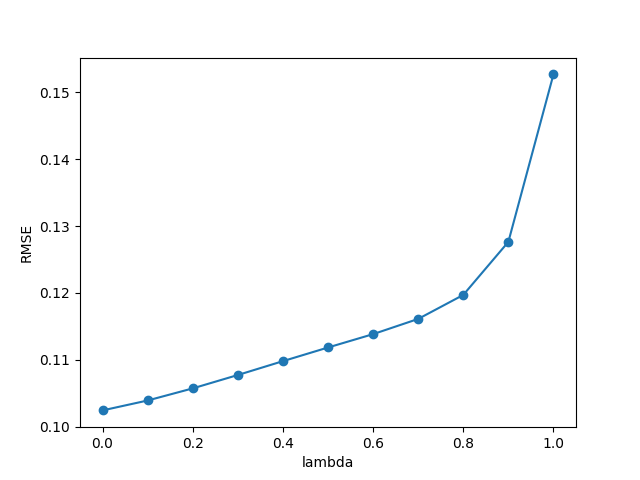
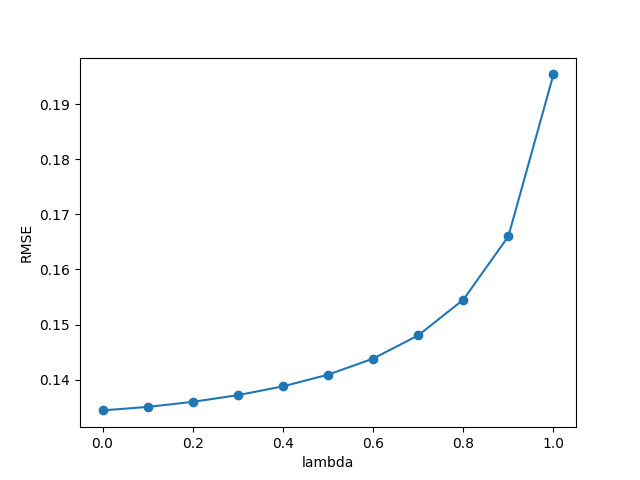
working!

diff --git a/projects/pr1/ex2.py b/projects/pr1/ex2.py
@@ -1,14 +1,14 @@
-import time
 import numpy as np
 import matplotlib.pyplot as plt
+from timeit import default_timer as timer
 
 
-def batch_td(training_episodes, w=None, lambda_=0.1, alpha=0.001, epsilon=1e-7):
+def batch_td(training_episodes, w=None, lambda_=0.3, alpha=0.025, epsilon=1e-7):
     num_states = len(training_episodes[0][0])
     if w is None:
         w = np.ones(num_states) * 0.5
     delta_w = w + 1
-    start = time.time()
+    start = timer()
     while np.linalg.norm(delta_w) > epsilon:
     # for i in xrange(5):
         delta_w = np.zeros(num_states)
@@ -36,9 +36,9 @@ def batch_td(training_episodes, w=None, lambda_=0.1, alpha=0.001, epsilon=1e-7):
 
         w += delta_w
 
-        if time.time() - start > 2:
+        if timer() - start > 2:
             print 'delta_w norm:', np.linalg.norm(delta_w), w
-            start = time.time()
+            start = timer()
 
     return w
 
@@ -63,14 +63,22 @@ def walk(num_states):
 
 
 def get_true_w(num_states):
-    true_w = np.array([float(i) / num_states for i in xrange(num_states)])
-    true_w[-1] = 0.0
+    true_w = np.array([float(i) / (num_states + 1) for i in xrange(1, num_states + 1)])
     return true_w
 
 
 def rmse(v1):
     v2 = get_true_w(len(v1))
     return np.sqrt(np.mean(np.square(v1 - v2)))
+
+
+def find_alpha():
+    training_set = [walk(5) for _ in xrange(10)]
+    for alpha in np.arange(0.001, 0.101, 0.001):
+        start = timer()
+        e = rmse(batch_td(training_set, alpha=alpha, lambda_=0))
+        end = timer()
+        print alpha, e, end - start
 
 
 def fig3():
@@ -80,12 +88,12 @@ def fig3():
     errors_by_lambda = []
 
     for lambda_ in lambda_range:
-        print 'lambda:', lambda_
         errors = []
         for training_set in training_sets:
             w = batch_td(training_set, lambda_=lambda_)
             errors.append(rmse(w))
         errors_by_lambda.append(np.mean(errors))
+        print 'lambda:', lambda_, 'rmse:', errors_by_lambda[-1]
 
     build_plot(lambda_range, errors_by_lambda, 'lambda', 'RMSE')
     return lambda_range, errors_by_lambda
